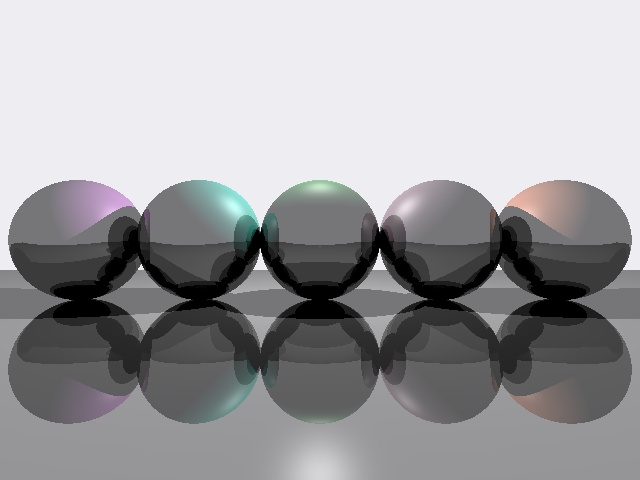
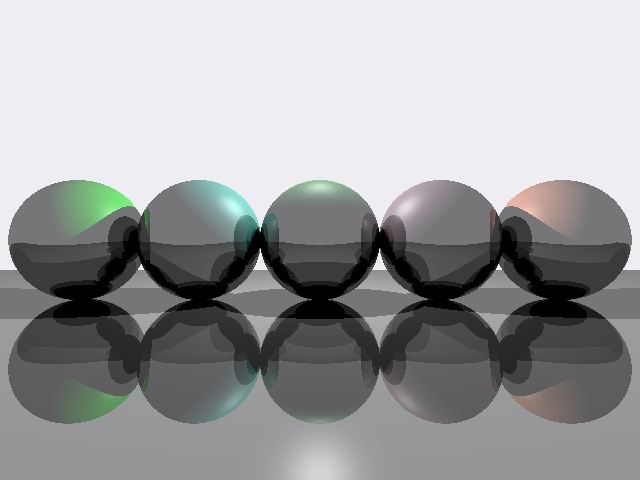
stratified sampling

Changed region(s): [[0.0938, 0.375, 0.2188, 0.5], [0.125, 0.8125, 0.2188, 0.875], [0.2188, 0.4375, 0.25, 0.4688]]

diff --git a/assignment-3/hw3-starterCode/hw3.cpp b/assignment-3/hw3-starterCode/hw3.cpp
@@ -80,8 +80,8 @@ void plot_pixel(int x, int y, vec3 color);
 
 struct Material {
 	vec3 normal;
-	vec3 color_diffuse;
-	vec3 color_specular;
+	vec3 diffuse;
+	vec3 specular;
 	float shininess;
 };
 
@@ -148,9 +148,11 @@ vector<Light*> lights;
 
 vec3 ambient_light;
 vec3 backgroundColor = vec3(0.93f, 0.93f, 0.95f);
+//vec3 backgroundColor = vec3(0);
 
+bool useGlobalLighting = true;
 bool useSSAA = false;
-int SSAA_level = 3;
+int numOfSubpixelsPerSide = 3;
 
 
 
@@ -189,6 +191,10 @@ vector<Light*> sampleLights() {
 	return lightSamples;
 }
 void draw_scene() {
+	//debug 
+	useSSAA = false;
+	useGlobalLighting = true;
+
 	// calculate pixel start position, which is at x = -1, y = -1 (outside of the image).
 	vec3 startPosition;
 	startPosition.z = -1;
@@ -209,7 +215,7 @@ void draw_scene() {
 
 			vec3 color = ambient_light;
 			if (useSSAA) {
-				color = calculateSSAA(SSAA_level, pixelSize, pixelPosition);
+				color = calculateSSAA(numOfSubpixelsPerSide, pixelSize, pixelPosition);
 			}
 			else {
 				calculateRayColor(color, Ray(vec3(0), pixelPosition), 0);
@@ -224,21 +230,50 @@ void draw_scene() {
 	printf("Done!\n"); fflush(stdout);
 }
 
-vec3 calculateSSAA(int SSAA_level, float pixelSize, vec3 pixelPosition) {
+float getRandom(float min, float max) {
+	float f = (float)rand() / RAND_MAX;
+	return min + f * (max - min);
+}
+vec3 calculateSSAA(int numOfSubpixelsPerSide, float pixelSize, vec3 pixelPosition) {
+	// super sampling
+	//vec3 color = ambient_light;
+
+	//float cellSize = pixelSize / numOfSubpixelsPerSide;
+	//vec3 startPosition = pixelPosition;
+	//float offset = 0.5f * cellSize * (numOfSubpixelsPerSide + 1);
+	//startPosition -= vec3(offset, offset, 0);
+
+	//vec3 cellPosition = startPosition;
+	//for (unsigned int x = 0; x < numOfSubpixelsPerSide; x++) {
+	//	cellPosition.x += cellSize;
+	//	cellPosition.y = startPosition.y;
+
+	//	for (unsigned int y = 0; y < numOfSubpixelsPerSide; y++) {
+	//		cellPosition.y += cellSize;
+
+	//		Ray cameraRay(vec3(0), cellPosition);
+	//		vec3 subcolor;
+	//		calculateRayColor(subcolor, cameraRay, 0);
+	//		color += subcolor;
+	//	}
+	//}
+	//color /= numOfSubpixelsPerSide * numOfSubpixelsPerSide;
+	//return color;
+
+	// stratified sampling
 	vec3 color = ambient_light;
 
-	float cellSize = pixelSize / SSAA_level;
+	float cellSize = pixelSize / numOfSubpixelsPerSide;
 	vec3 startPosition = pixelPosition;
-	float offset = 0.5f * cellSize * (SSAA_level + 1);
+	float offset = pixelSize * 0.5f;
 	startPosition -= vec3(offset, offset, 0);
 
 	vec3 cellPosition = startPosition;
-	for (unsigned int x = 0; x < SSAA_level; x++) {
-		cellPosition.x += cellSize;
-		cellPosition.y = startPosition.y;
+	for (unsigned int x = 0; x < numOfSubpixelsPerSide; x++) {
+		cellPosition.x = startPosition.x + x * cellSize + getRandom(0, cellSize);
 
-		for (unsigned int y = 0; y < SSAA_level; y++) {
-			cellPosition.y += cellSize;
+		for (unsigned int y = 0; y < numOfSubpixelsPerSide; y++) {
+			cellPosition.y = startPosition.y + y * cellSize + getRandom(0, cellSize);
 
 			Ray cameraRay(vec3(0), cellPosition);
 			vec3 subcolor;
@@ -246,7 +281,7 @@ vec3 calculateSSAA(int SSAA_level, float pixelSize, vec3 pixelPosition) {
 			color += subcolor;
 		}
 	}
-	color /= SSAA_level * SSAA_level;
+	color /= numOfSubpixelsPerSide * numOfSubpixelsPerSide;
 	return color;
 }
 
@@ -264,13 +299,13 @@ Material Triangle::getMaterial(vec3 position) {
 								 bary.x * m0.normal.y + bary.y * m1.normal.y + bary.z * m2.normal.y,
 								 bary.x * m0.normal.z + bary.y * m1.normal.z + bary.z * m2.normal.z));
 
-	material.color_diffuse[0] = bary.x * m0.color_diffuse[0] + bary.y * m1.color_diffuse[0] + bary.z * m2.color_diffuse[0];
-	material.color_diffuse[1] = bary.x * m0.color_diffuse[1] + bary.y * m1.color_diffuse[1] + bary.z * m2.color_diffuse[1];
-	material.color_diffuse[2] = bary.x * m0.color_diffuse[2] + bary.y * m1.color_diffuse[2] + bary.z * m2.color_diffuse[2];
+	material.diffuse[0] = bary.x * m0.diffuse[0] + bary.y * m1.diffuse[0] + bary.z * m2.diffuse[0];
+	material.diffuse[1] = bary.x * m0.diffuse[1] + bary.y * m1.diffuse[1] + bary.z * m2.diffuse[1];
+	material.diffuse[2] = bary.x * m0.diffuse[2] + bary.y * m1.diffuse[2] + bary.z * m2.diffuse[2];
 
-	material.color_specular[0] = bary.x * m0.color_specular[0] + bary.y * m1.color_specular[0] + bary.z * m2.color_specular[0];
-	material.color_specular[1] = bary.x * m0.color_specular[1] + bary.y * m1.color_specular[1] + bary.z * m2.color_specular[1];
-	material.color_specular[2] = bary.x * m0.color_specular[2] + bary.y * m1.color_specular[2] + bary.z * m2.color_specular[2];
+	material.specular[0] = bary.x * m0.specular[0] + bary.y * m1.specular[0] + bary.z * m2.specular[0];
+	material.specular[1] = bary.x * m0.specular[1] + bary.y * m1.specular[1] + bary.z * m2.specular[1];
+	material.specular[2] = bary.x * m0.specular[2] + bary.y * m1.specular[2] + bary.z * m2.specular[2];
 
 	material.shininess = bary.x * m0.shininess + bary.y * m1.shininess + bary.z * m2.shininess;
 
@@ -389,7 +424,7 @@ void calculateRayColor(vec3& finalColor, Ray& ray, int numOfReflection) {
 	Object* object = ray.getFirstIntersectedObject(position);
 	if (object) {
 		Material material = object->getMaterial(position);
-		float ks = (material.color_specular.x + material.color_specular.y + material.color_specular.z) / 3;
+		float ks = (material.specular.x + material.specular.y + material.specular.z) / 3;
 
 		vec3 localColor(0);
 		for (int i = 0; i < lights.size(); i++) {
@@ -398,12 +433,17 @@ void calculateRayColor(vec3& finalColor, Ray& ray, int numOfReflection) {
 			localColor += calculatePhongShading(position, lights[i], material);
 		}
 
-		vec3 reflectionColor(0);
-		vec3 R = normalize(reflect(ray.direction, material.normal));
-		Ray reflectionRay(position, position + R);
-		calculateRayColor(reflectionColor, reflectionRay, numOfReflection + 1);
+		if (useGlobalLighting) {
+			vec3 reflectionColor(0);
+			vec3 R = normalize(reflect(ray.direction, material.normal));
+			Ray reflectionRay(position, position + R);
+			calculateRayColor(reflectionColor, reflectionRay, numOfReflection + 1);
 
-		finalColor = (1 - ks) * localColor + ks * reflectionColor;
+			finalColor = (1 - ks) * localColor + ks * reflectionColor;
+		}
+		else {
+			finalColor = localColor;
+		}
 	}
 	else {
 		finalColor = backgroundColor;
@@ -411,8 +451,8 @@ void calculateRayColor(vec3& finalColor, Ray& ray, int numOfReflection) {
 }
 vec3 calculatePhongShading(vec3 position, Light* light, Material material) {
 	vec3 lightVector = normalize(light->position - position);
-	vec3 diffuseColor = material.color_diffuse;
-	vec3 specularColor = material.color_specular;
+	vec3 diffuseColor = material.diffuse;
+	vec3 specularColor = material.specular;
 
 	float ndotl = std::max(dot(lightVector, material.normal), 0.0f);
 	vec3 diffuse = diffuseColor * ndotl;
@@ -510,8 +550,8 @@ int loadScene(char* argv) {
 			for (int j = 0; j < 3; j++) {
 				parse_doubles(file, "pos:", t->v[j].position);
 				parse_doubles(file, "nor:", t->v[j].material.normal);
-				parse_doubles(file, "dif:", t->v[j].material.color_diffuse);
-				parse_doubles(file, "spe:", t->v[j].material.color_specular);
+				parse_doubles(file, "dif:", t->v[j].material.diffuse);
+				parse_doubles(file, "spe:", t->v[j].material.specular);
 				parse_shi(file, &t->v[j].material.shininess);
 			}
 
@@ -528,8 +568,8 @@ int loadScene(char* argv) {
 			Sphere* s = new Sphere();
 			parse_doubles(file, "pos:", s->position);
 			parse_rad(file, &s->radius);
-			parse_doubles(file, "dif:", s->baseMaterial.color_diffuse);
-			parse_doubles(file, "spe:", s->baseMaterial.color_specular);
+			parse_doubles(file, "dif:", s->baseMaterial.diffuse);
+			parse_doubles(file, "spe:", s->baseMaterial.specular);
 			parse_shi(file, &s->baseMaterial.shininess);
 
 			if (spheres.size() == MAX_SPHERES) {
